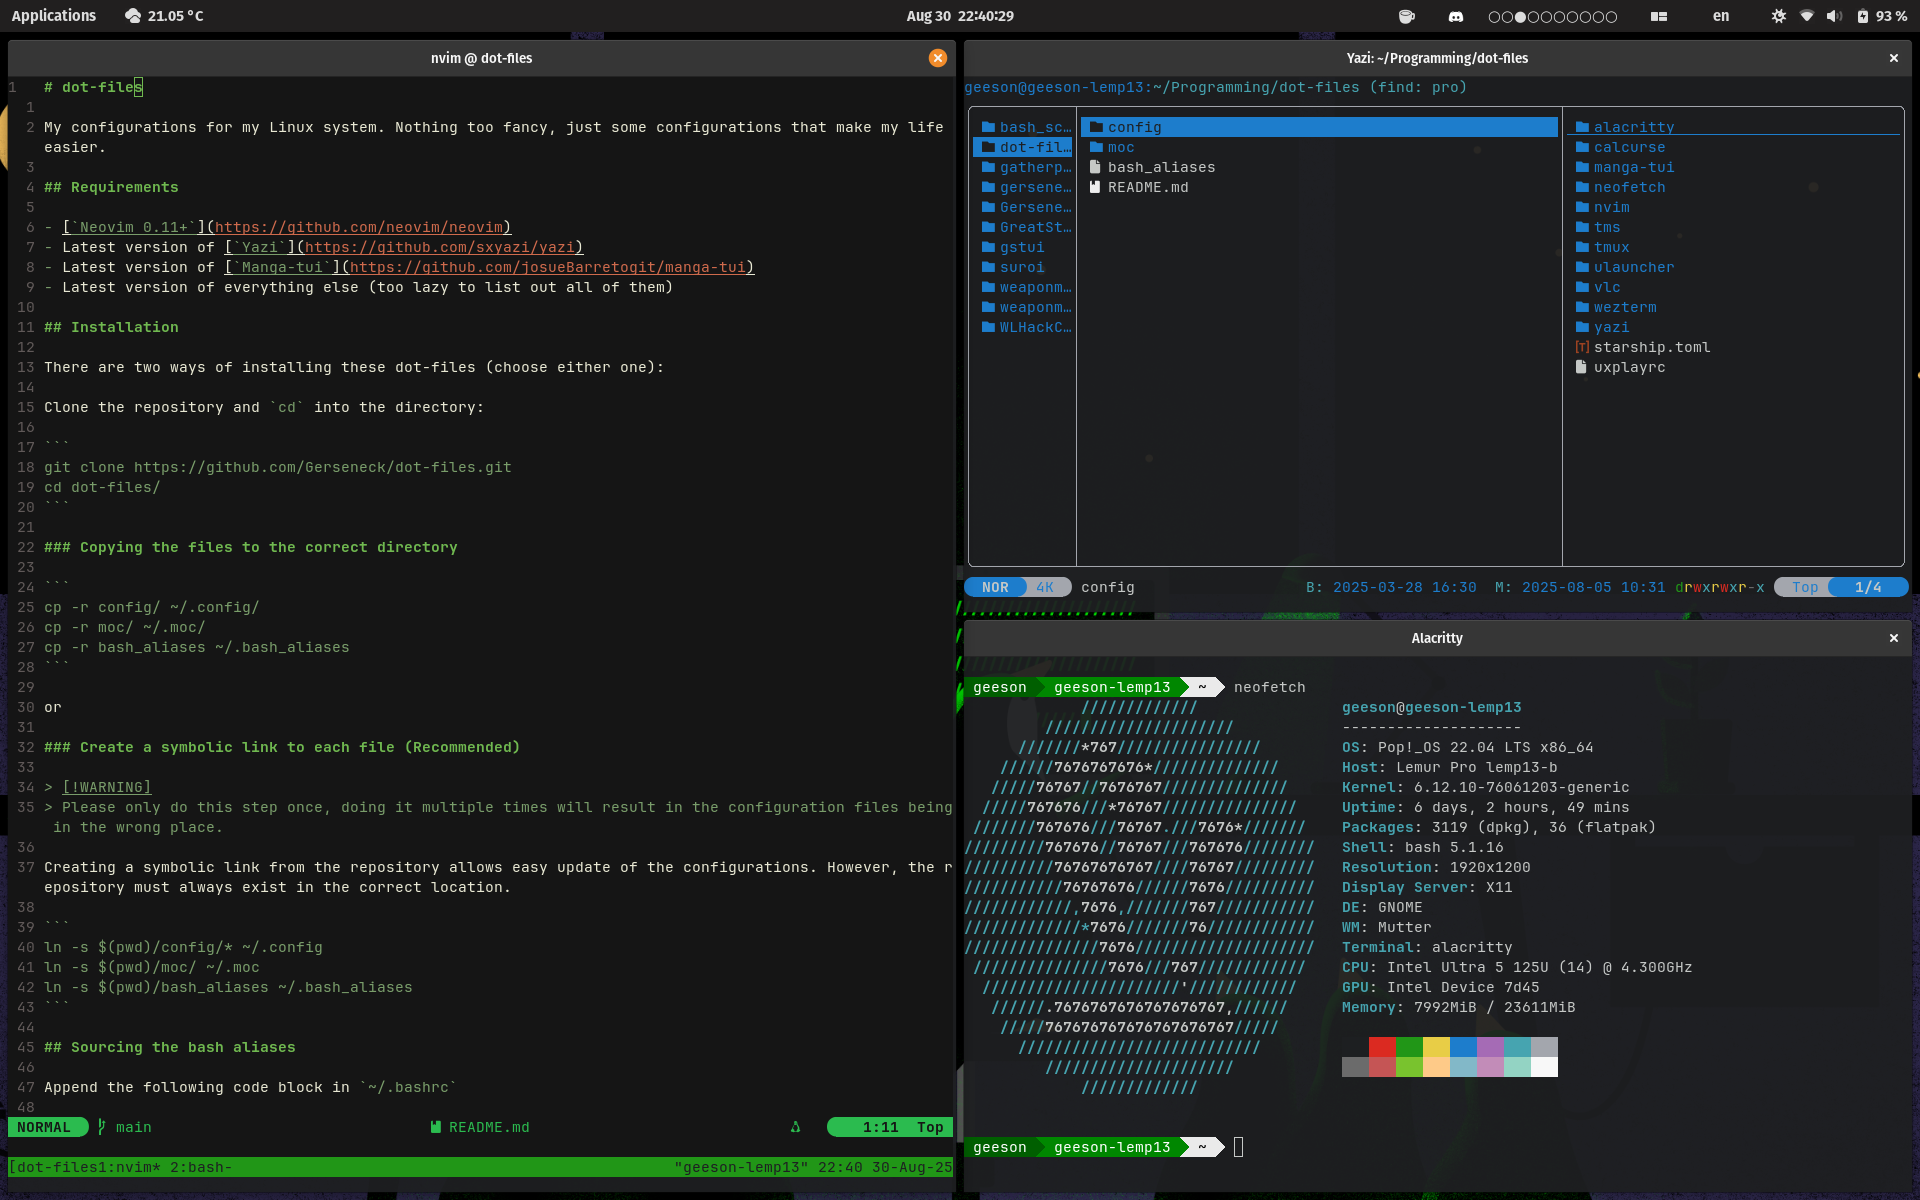
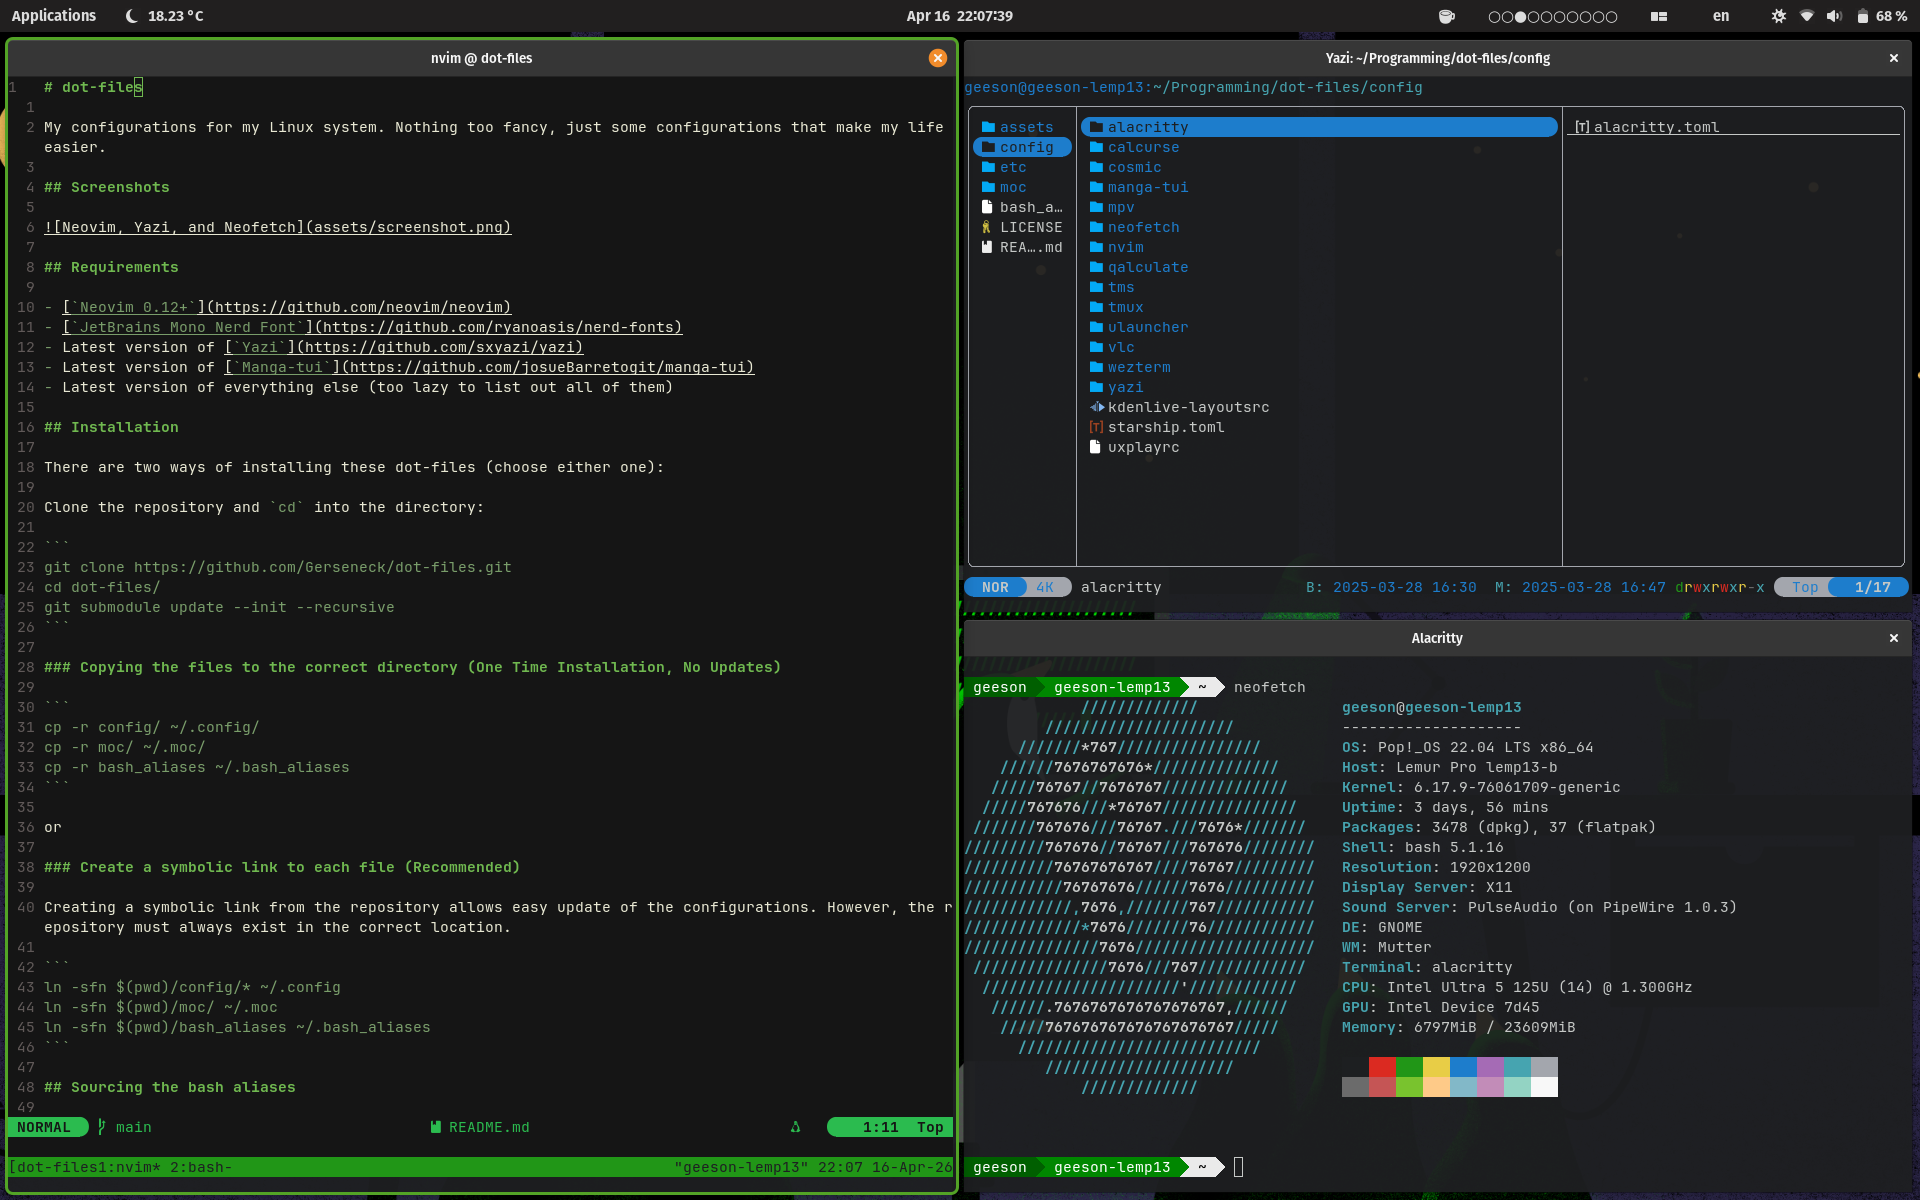
feat(README): update requirements and screenshot

diff --git a/README.md b/README.md
@@ -8,7 +8,7 @@ My configurations for my Linux system. Nothing too fancy, just some configuratio
 
 ## Requirements
 
-- [`Neovim 0.11+`](https://github.com/neovim/neovim)
+- [`Neovim 0.12+`](https://github.com/neovim/neovim)
 - [`JetBrains Mono Nerd Font`](https://github.com/ryanoasis/nerd-fonts)
 - Latest version of [`Yazi`](https://github.com/sxyazi/yazi)
 - Latest version of [`Manga-tui`](https://github.com/josueBarretogit/manga-tui)
